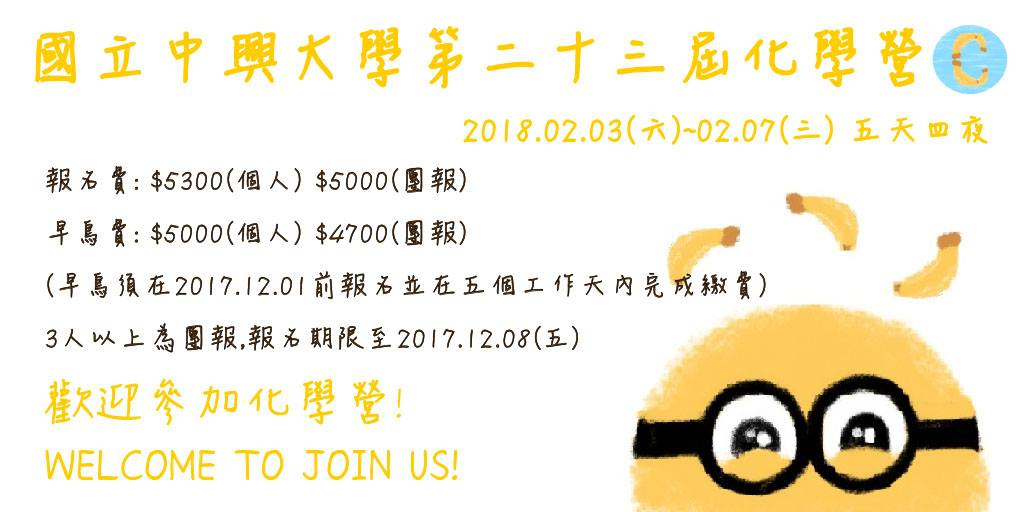
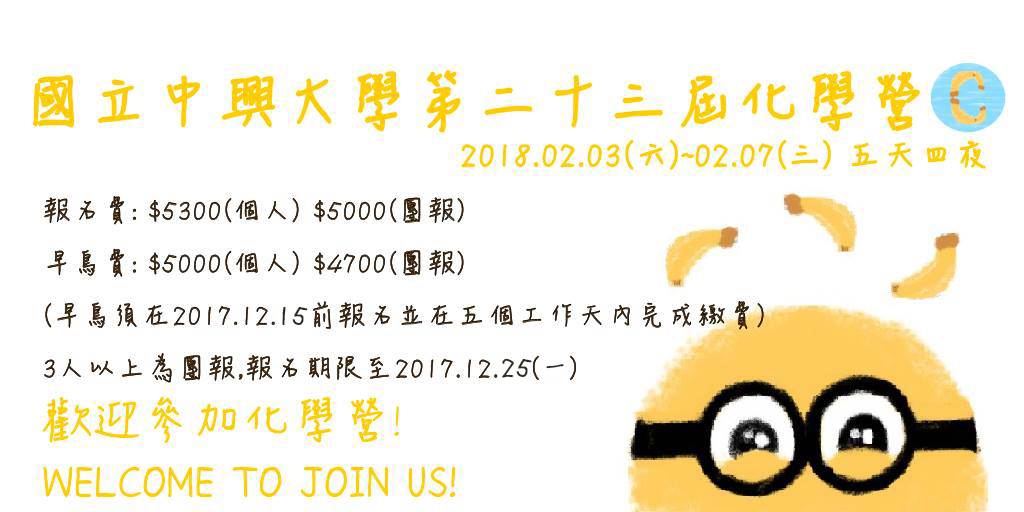
更新1017.11.25

diff --git a/index.html b/index.html
@@ -201,6 +201,7 @@
     <span class="text">公告 Notice</span>
     <div class="menu" style="background-color: black;">
       <div id="BN_B" class="item"><div style="color: white;text-align:center;">最新消息 &nbsp; </div></div>
+      <a href="https://drive.google.com/uc?export=download&id=1fv4pSNzPMnyOUY-M6mkqQ8uWPRIwuV9E"><div id="DL_B" class="item"><div style="color: white;text-align:center;">簡章下載 &nbsp; </div></div></a>
       <div id="AL_B" class="item"><div style="color: white;text-align:center;">綠取名單 &nbsp; </div></div>
       <div id="BF_B" class="item"><div style="color: white;text-align:center;">營前需知 &nbsp; </div></div>
       <div class="item">
@@ -306,11 +307,14 @@
       			4.報名費：<br>
       			原價5300 團報5000 (3人以上)<br>
       			早鳥5000 團報4700<br>
-      			(2017/12/01前完成報名繳費)<br>
+      			(2017/12/15前完成報名繳費)<br>
       			5.招生對象：全國高中職生<br>
       			6.名額：96人<br>
-      			7.報名期限：2017/12/15 (五) 23:59止<br>
+      			7.報名期限：2017/12/25 (一) 23:59止<br>
       			8.報名方式：詳見FB粉專或官網<br>
+            9.提供經濟弱勢生名額2名<br>
+            詳情請見報名簡章<br>
+            <a href="https://drive.google.com/uc?export=download&id=1fv4pSNzPMnyOUY-M6mkqQ8uWPRIwuV9E"><button class="ui inverted green button" style="margin: 1.5%;">報名簡章請點我下載</button></a>
           </span>
         </div>
         <div class="six wide right floated column">
@@ -771,23 +775,24 @@
 		  About
 		</h1></div>
 		 <div class="ui one column centered grid container">
-	      <span style="line-height: 30px;font-size:18px;">
-			<中興化學營><br>
-			是由中興化學系系學會募集系上具有熱忱與責任感的學生，<br>
-			共同精心籌備策劃的寒假營隊 ，<br>
-			如今終於也辦到了第二十三屆。<br>
-			 &nbsp; <br>
-			化學，<br>
-			存在於你我身旁，與我們的生活息息相關，<br>
-			學習並應用帶給我們無盡的便利。<br>
-			在營隊中，透過教授專業的授課，<br>
-			搭配完善的實驗課程，以及豐富的活動內容，<br>
-			藉此讓更多人感受化學獨有的魅力，<br>
-			也在充滿課業壓力的高中生活中，<br>
-			增添幾筆難忘，愉快的回憶！<br>
-			 &nbsp; <br>
-			詳情請見粉絲專頁<br>
-			<a href="https://www.facebook.com/nchuchemcamp23/"><img id="FB" src="img/FB.png" style="width: 12%"></a><br>
+	      <span style="line-height: 30px;font-size:18px;margin-right:15%;margin-left: 15% ">
+  			<中興化學營><br>
+  			是由中興化學系系學會募集系上具有熱忱與責任感的學生，共同精心籌備策劃的寒假營隊 ，如今終於也辦到了第二十三屆。<br>
+  			 &nbsp; <br>
+  			化學，<br>
+  			存在於你我身旁，與我們的生活息息相關，學習並應用帶給我們無盡的便利。<br><br>
+        活動內容:<br><br>
+  			✪專題演講✪<br>
+        邀請系上資深教授，以深入淺出的方式教導學生身為化學家的思考以及解決問題的模式，讓學生用不同思維學習化學，延伸出生活化的化學，讓課本中的化學不再死板。<br><br>
+        ✪化學實驗✪<br>
+        由助教及大學生設計的有趣實驗，讓學員操作多數課本上只能看不能做的化學實驗，體驗化學系有趣之處，並驗證課本中的化學原理。<br><br>
+        ✪化學魔術表演✪<br>
+        邀請助教演示特殊的化學實驗，在安全前提下，讓學員體驗平常不常見的化學變化，過去參加的學員極力推薦。<br><br>
+        ✪精彩活動✪<br>
+        由大學生設計的團康活動、大型遊戲以及晚會活動，為化學營的活動增添更多樂趣，活動中有不少彩蛋等著學員來挖掘。<br>
+        &nbsp; <br>
+  			詳情請見粉絲專頁<br>
+  			<a href="https://www.facebook.com/nchuchemcamp23/"><img id="FB" src="img/FB.png" style="width: 12%"></a><br>
 	      </span></div>
   </div>
 
@@ -843,7 +848,7 @@
 		  	<span style="line-height: 30px;font-size:18px;">
 		    共有兩個辦法<br>
 			1.短暫離開 (如:考試)，可以選擇繼續參加，<br>
-			並事先下載＂離營切結書＂填寫，於離營前繳交。<br>
+			並事先下載＂<a href="https://drive.google.com/uc?export=download&id=12Bq_rAgO8Hb0Ecxd0AlwrSSfJ4-sCJ8S">離營切結書</a>＂填寫，於離營前繳交。<br>
 			2.可選擇取消報名並退費，退費相關規呈請參閱＂退費辦法＂。<br>
 			</span> 
 		    </p>
@@ -907,7 +912,7 @@
 		  </div>
 		</div>
 		<div class="container" style="margin: 2%;">
-		<a href=""><button class="ui blue button" >離營切結書</button></a>
+		<a href="https://drive.google.com/uc?export=download&id=12Bq_rAgO8Hb0Ecxd0AlwrSSfJ4-sCJ8S"><button class="ui blue button" >離營切結書</button></a>
 		<a href=""><button class="ui purple button" >退費辦法</button></a>
 		</div></div>
   </div>
